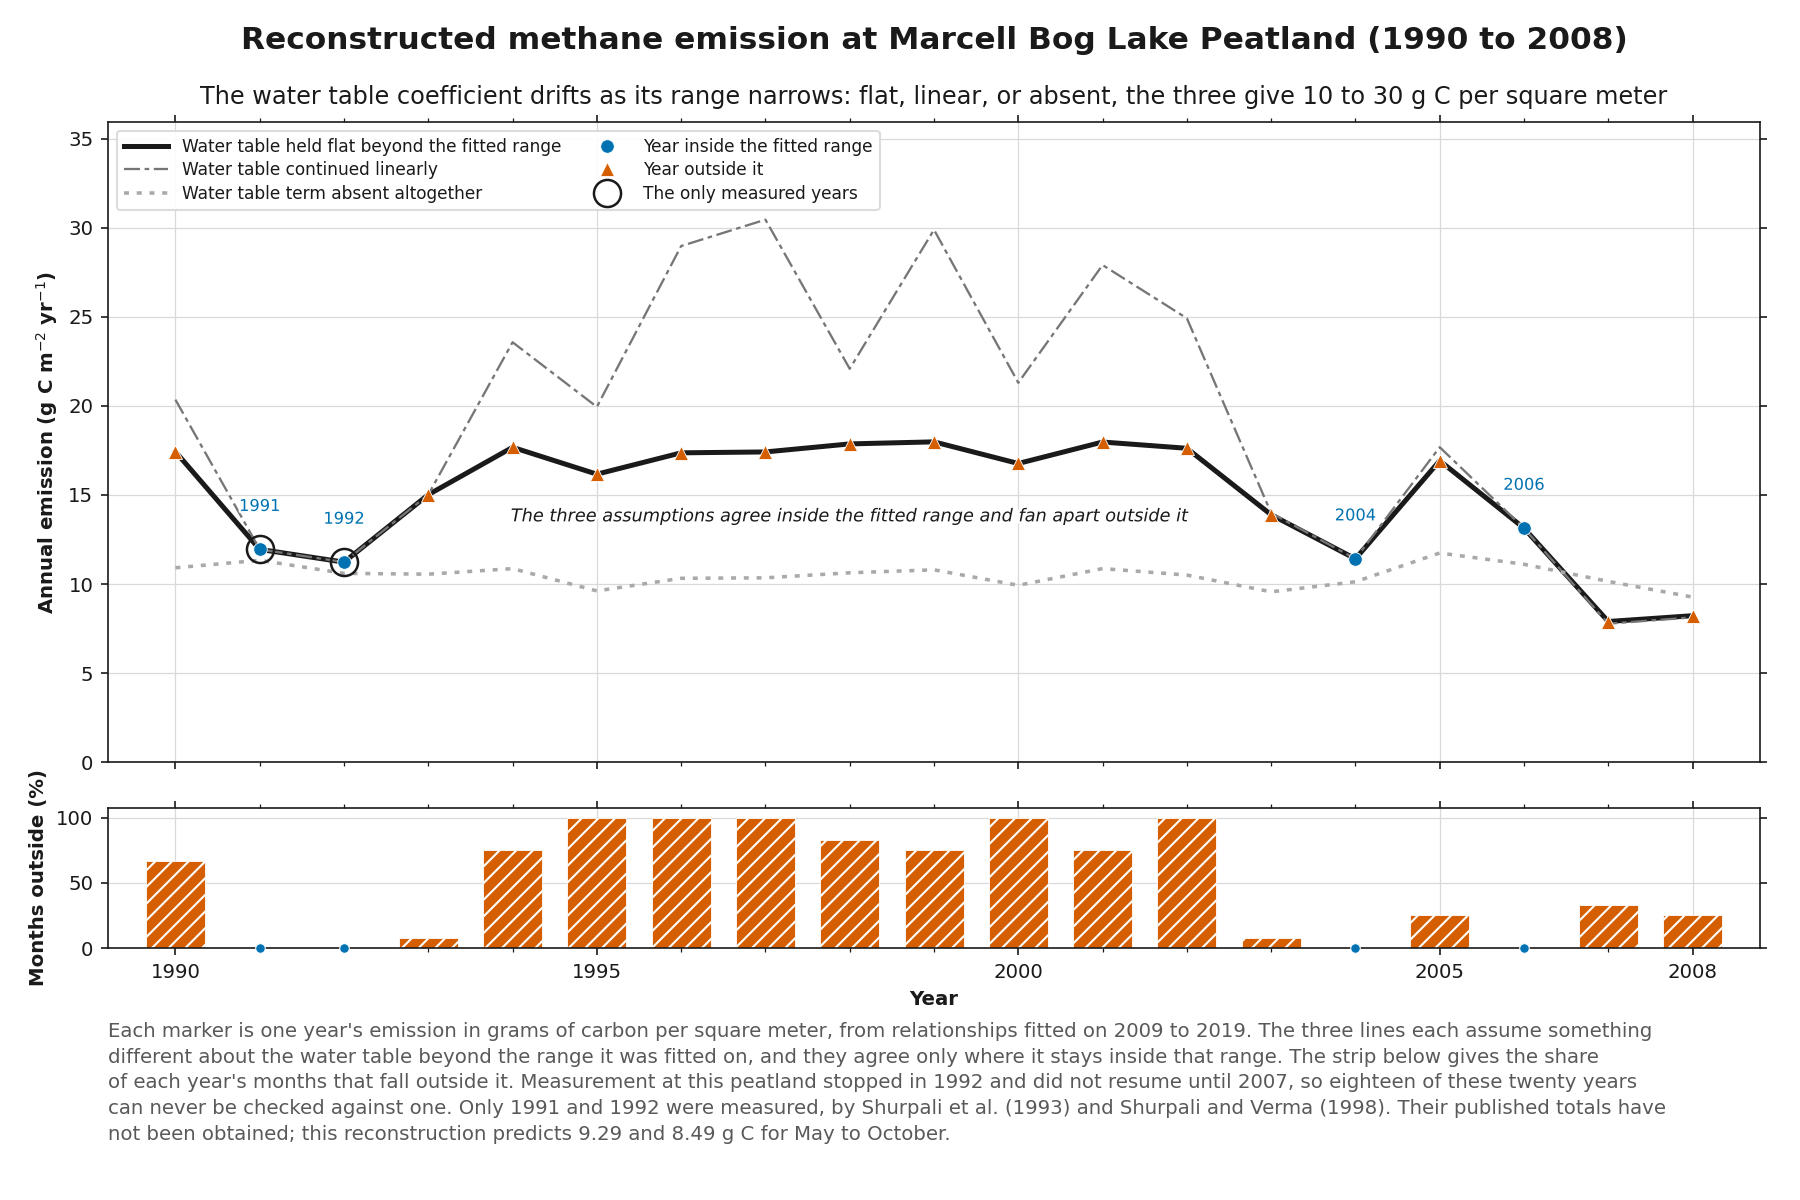
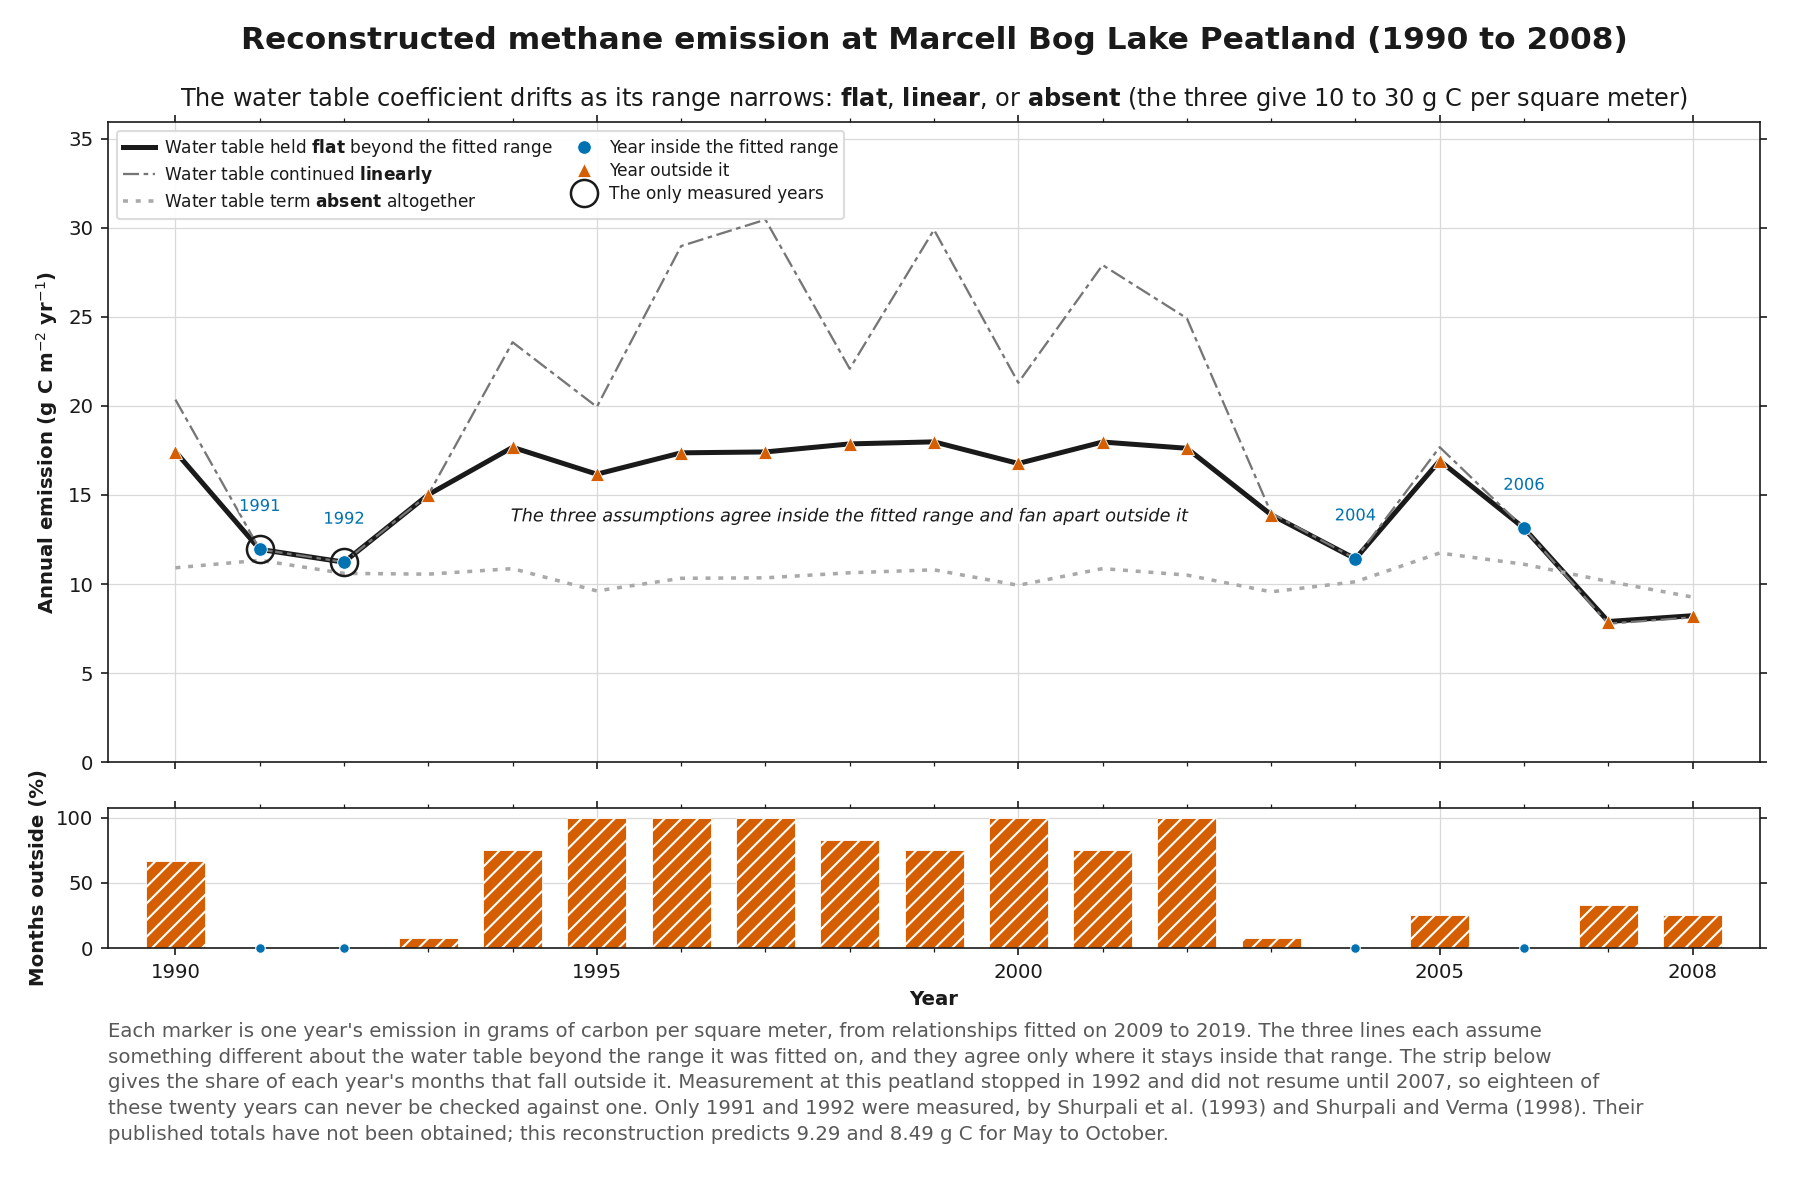
Bold the three assumption terms

Changed region(s): [[0.0622, 0.8325, 0.9333, 0.9558], [0.0622, 0.0617, 0.9333, 0.185]]

diff --git a/src/study/plotstyle.py b/src/study/plotstyle.py
@@ -177,8 +177,8 @@ class FigureText:
     title: str
     subtitle: str
     description: str
-    #: Phrases set bold inside the description, so a reader can find the part
-    #: they want without reading the block linearly.
+    #: Phrases set bold in the subtitle and description, so a term introduced
+    #: above can be found again below. Matched on whole words only.
     emphasize: tuple[str, ...] = ()
 
     def __post_init__(self) -> None:
@@ -206,17 +206,20 @@ def _wrap_width(width_px: int) -> int:
     return max(20, int(drawable_points / (_CHAR_WIDTH * DESCRIPTION_SIZE)))
 
 
-def emphasize(wrapped: str, terms: tuple[str, ...]) -> str:
-    """Set the given phrases bold within already-wrapped text.
+def emphasize(text: str, terms: tuple[str, ...]) -> str:
+    """Set the given phrases bold, matching whole words only.
 
-    Applied after wrapping, so the markup cannot affect where lines break. Bold
-    is slightly wider than regular, which `wrap_description` allows for by
-    shortening the line when any term is to be emphasized.
+    Applied to a description after wrapping, so the markup cannot affect where
+    lines break. Bold is slightly wider than regular, which `wrap_description`
+    allows for by shortening the line when any term is to be emphasized. Whole
+    words only, so emphasizing "flat" cannot reach inside "flatten".
     """
+    import re
+
     for term in terms:
-        if term in wrapped:
-            wrapped = wrapped.replace(term, r"$\bf{" + term.replace(" ", r"\ ") + "}$")
-    return wrapped
+        bold = r"$\bf{" + term.replace(" ", r"\ ") + "}$"
+        text = re.sub(rf"\b{re.escape(term)}\b", bold.replace("\\", "\\\\"), text)
+    return text
 
 
 def wrap_description(text: str, width_px: int, terms: tuple[str, ...] = ()) -> str:
@@ -258,7 +261,8 @@ def canvas_area(text: FigureText, size: str = "wide") -> tuple[Figure, tuple[flo
     fig.text(middle, 1 - MARGIN_PX["top"] / height_px, text.title,
              ha="center", va="top", fontsize=TITLE_SIZE, fontweight="bold", color=INK)
     fig.text(middle, 1 - (MARGIN_PX["top"] + TITLE_SIZE * 1.9 / 72 * DPI) / height_px,
-             text.subtitle, ha="center", va="top", fontsize=SUBTITLE_SIZE, color=INK)
+             emphasize(text.subtitle, text.emphasize), ha="center", va="top",
+             fontsize=SUBTITLE_SIZE, color=INK)
     fig.text(left, (MARGIN_PX["bottom"] + DESCRIPTION_BLOCK_PX) / height_px,
              body, ha="left", va="top", fontsize=DESCRIPTION_SIZE, color=MUTED,
              linespacing=1.45)

diff --git a/src/study/figures.py b/src/study/figures.py
@@ -140,10 +140,12 @@ def _run_length(flags: np.ndarray, index: int) -> int:
 #: The three lines are three assumptions about one term, not three models, so
 #: they are named on the panel by what each assumes rather than by the internal
 #: variant names.
+#: The one word each entry shares with the subtitle is set bold, so a reader
+#: carrying "flat, linear, absent" down from there finds it in the key.
 WATER_TABLE_ASSUMPTIONS = {
-    "clamped": "Water table held flat beyond the fitted range",
-    "unclamped": "Water table continued linearly",
-    "reduced": "Water table term absent altogether",
+    "clamped": r"Water table held $\bf{flat}$ beyond the fitted range",
+    "unclamped": r"Water table continued $\bf{linearly}$",
+    "reduced": r"Water table term $\bf{absent}$ altogether",
 }
 
 #: The two years a measurement of this peatland exists for, and the only years
@@ -158,7 +160,7 @@ RECONSTRUCTION_TEXT = ps.FigureText(
     title="Reconstructed methane emission at Marcell Bog Lake Peatland (1990 to 2008)",
     subtitle=(
         "The water table coefficient drifts as its range narrows: flat, linear, or "
-        "absent, the three give 10 to 30 g C per square meter"
+        "absent (the three give 10 to 30 g C per square meter)"
     ),
     description=(
         "Each marker is one year's emission in grams of carbon per square meter, "
@@ -172,7 +174,7 @@ RECONSTRUCTION_TEXT = ps.FigureText(
         "Their published totals have not been obtained; this reconstruction "
         "predicts 9.29 and 8.49 g C for May to October."
     ),
-    emphasize=(),
+    emphasize=("flat", "linear", "absent"),
 )
 
 
@@ -228,8 +230,8 @@ def reconstruction_series(annual: pd.DataFrame) -> Figure:
     ax.xaxis.set_minor_locator(MultipleLocator(1))
     ax.tick_params(labelbottom=False)
     ps.mirror_ticks(ax)
-    ps.legend(ax, loc="upper left", fontsize=8.2, borderpad=0.42, labelspacing=0.32,
-              handlelength=2.6, ncols=2, columnspacing=1.4)
+    ps.legend(ax, loc="upper left", fontsize=8.2, borderpad=0.36, labelspacing=0.3,
+              handlelength=1.9, handletextpad=0.5, ncols=2, columnspacing=0.9)
 
     share = frame["pct_months_outside"].to_numpy()
     # A year wholly inside has a bar of zero height. Marking those years on the

diff --git a/tests/test_figures.py b/tests/test_figures.py
@@ -130,7 +130,12 @@ def test_the_three_lines_are_achromatic_and_separately_styled():
 
 def test_the_panel_names_assumptions_rather_than_internal_variants():
     fig = figures.reconstruction_series(annual_frame())
-    labels = " ".join(t.get_text() for t in fig.axes[0].get_legend().get_texts())
+    import re
+
+    raw = " ".join(t.get_text() for t in fig.axes[0].get_legend().get_texts())
+    # Terms shared with the subtitle are set bold, so the markup is stripped
+    # before comparing against the words a reader actually sees.
+    labels = re.sub(r"\$\\bf\{(.*?)\}\$", r"\1", raw)
     for internal in ("clamped", "unclamped", "reduced"):
         assert internal not in labels.lower()
     assert "held flat" in labels and "continued linearly" in labels

diff --git a/figures/README_fragments.md b/figures/README_fragments.md
@@ -18,6 +18,6 @@ Panel a is the peatland around the tower, with the wetland polygon the National 
 
 ![Reconstructed methane emission at Marcell Bog Lake Peatland (1990 to 2008)](figures/reconstruction_series.png)
 
-**The water table coefficient drifts as its range narrows: flat, linear, or absent, the three give 10 to 30 g C per square meter**
+**The water table coefficient drifts as its range narrows: flat, linear, or absent (the three give 10 to 30 g C per square meter)**
 
 Each marker is one year's emission in grams of carbon per square meter, from relationships fitted on 2009 to 2019. The three lines each assume something different about the water table beyond the range it was fitted on, and they agree only where it stays inside that range. The strip below gives the share of each year's months that fall outside it. Measurement at this peatland stopped in 1992 and did not resume until 2007, so eighteen of these twenty years can never be checked against one. Only 1991 and 1992 were measured, by Shurpali et al. (1993) and Shurpali and Verma (1998). Their published totals have not been obtained; this reconstruction predicts 9.29 and 8.49 g C for May to October.
